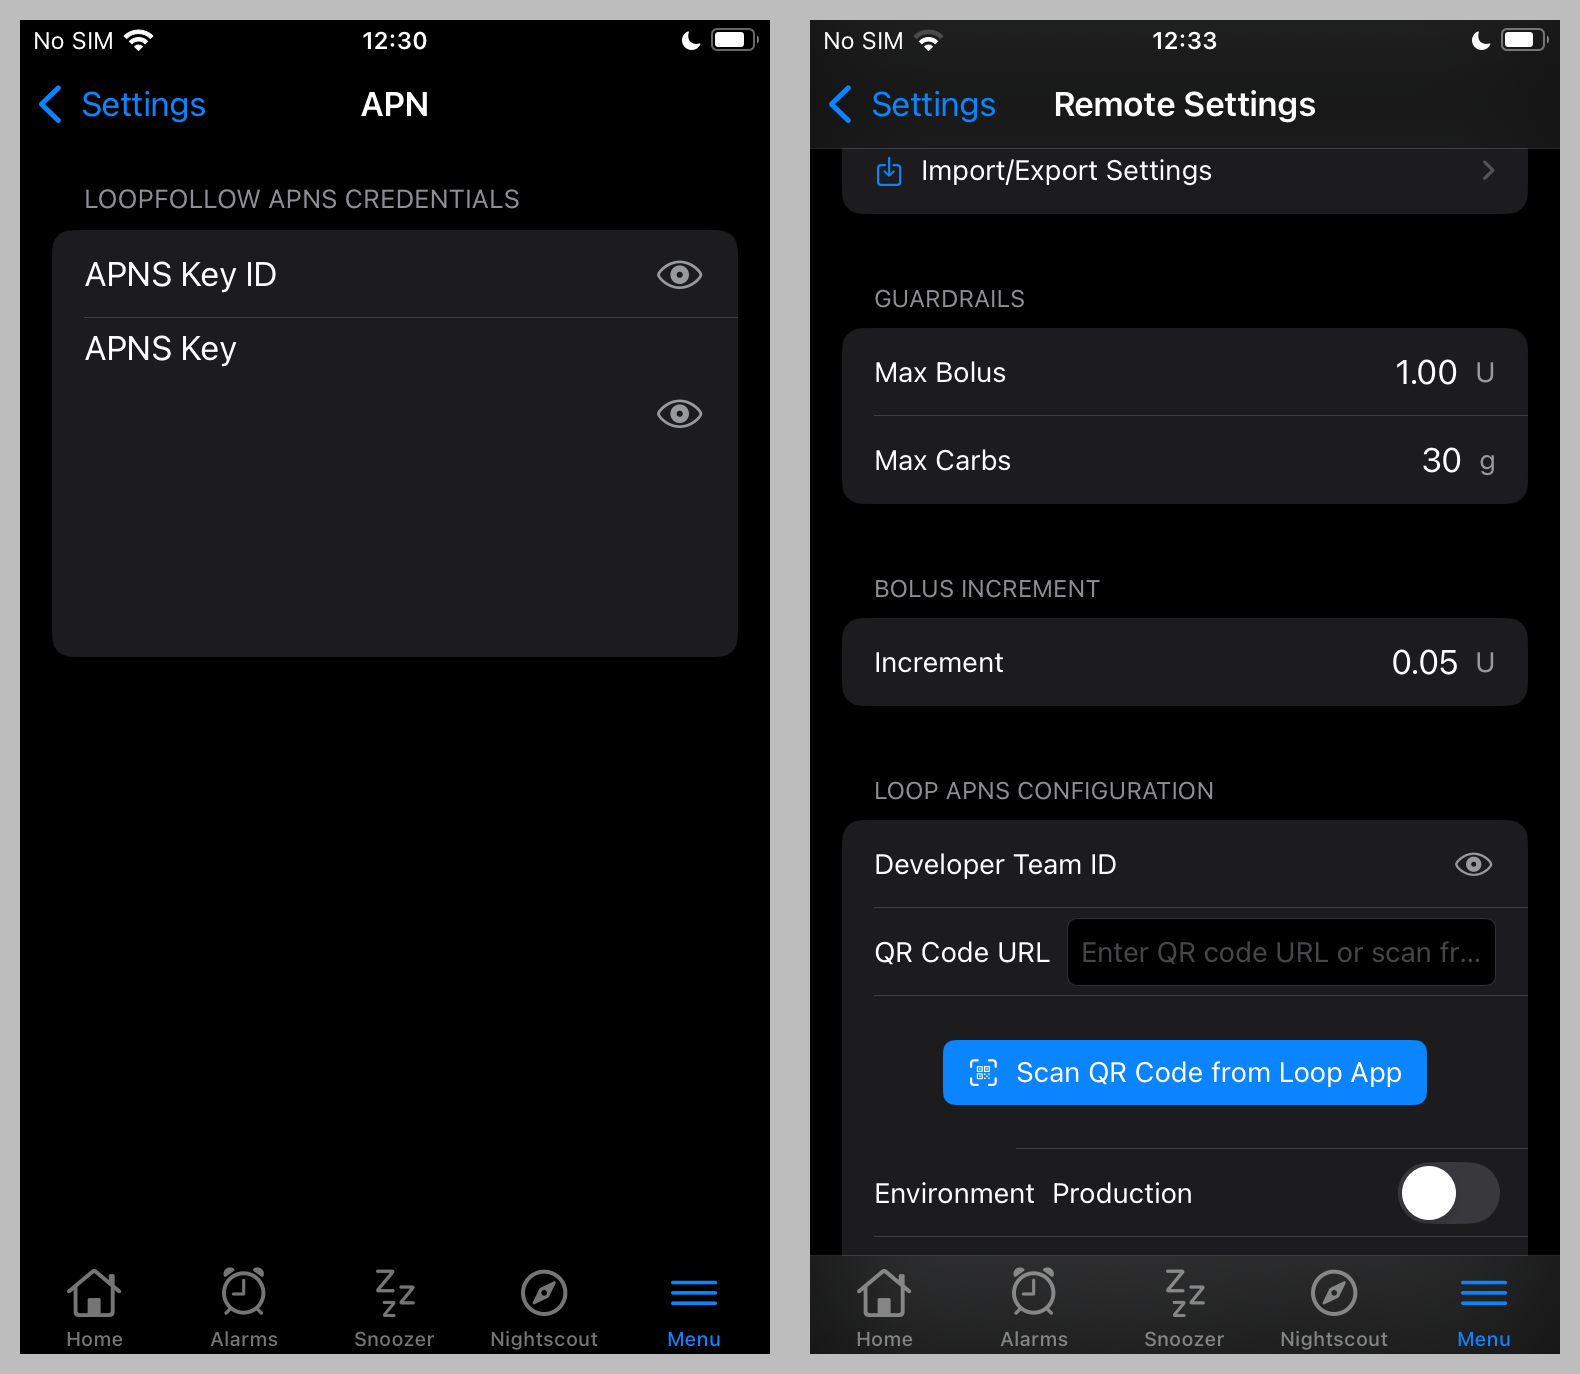
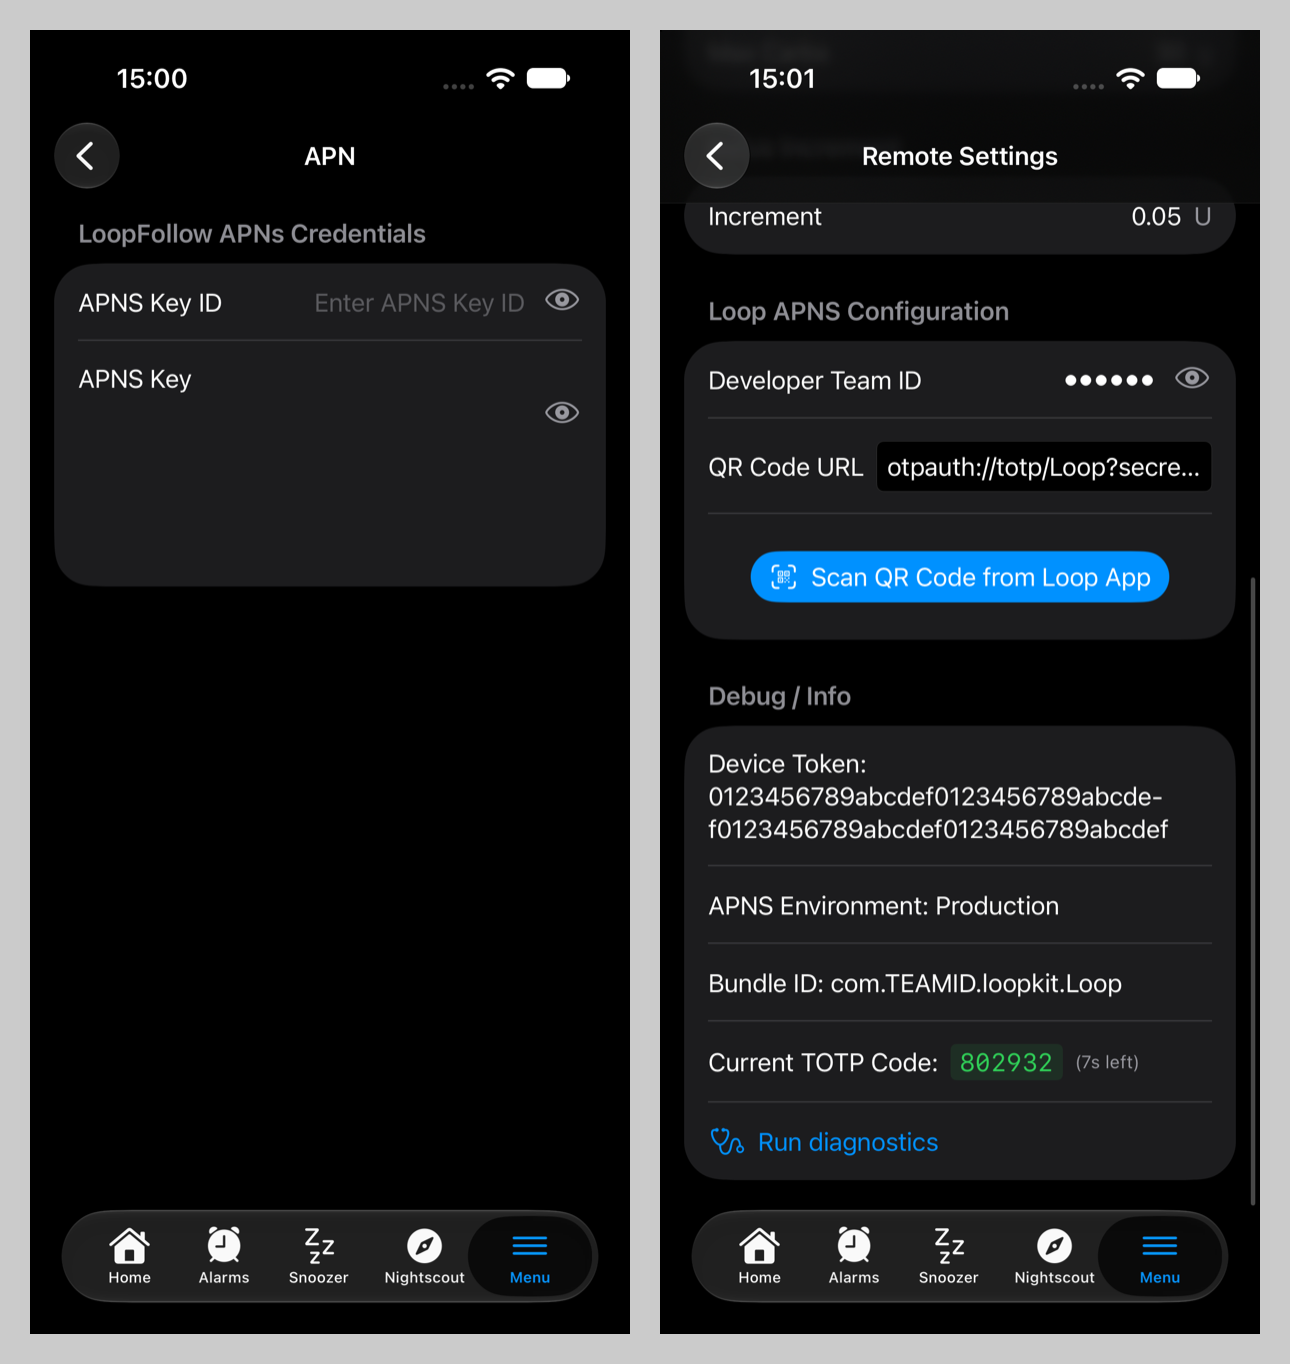
Document the Loop APNS environment read from Nightscout (#68)
LoopFollow reads the APNS environment from the Nightscout profile that Loop uploads and shows it under Debug / Info. Production means Loop was installed with TestFlight and Development means it was installed directly from Xcode. Loop uploads the value from 3.14.7; the next-dev branch does not yet.

diff --git a/docs/remote/remote-control-loop.md b/docs/remote/remote-control-loop.md
@@ -295,7 +295,6 @@ When you select *Loop* Remote Control as the Remote Type in the *LoopFollow* app
 
     * [Developer Team ID](#developer-team-id)
     * [QR Code URL](#qr-code-url)
-    * [Environment Production](#environment-production)
 
 ![remote lrc settings ](img/lf-lrc-credentials.png){width="700"}
 {align="center"}
@@ -342,17 +341,22 @@ Options:
 
 While you are on the *Loop* Settings -> Services -> NightScout screen, notice that the 6-digit number on the One-Time Password row updates every 30 seconds.
 
-### Environment Production
+### APNS Environment
 
-If the *Loop* app was built with Browser Build, you must enable this row.
+!!! info "Available in *LoopFollow* 7.2 and newer"
 
-If the *Loop* app was built using Xcode on a Mac, you must disable this row.
+*Loop* uploads its APNS environment to *Nightscout*, and *LoopFollow* reads it from there. It is shown in the [Debug / Info](#debug-info) section as **APNS Environment**: Production when *Loop* was installed with TestFlight, Development when it was installed directly from Xcode to the phone.
+
+*Loop* uploads this value from version 3.14.7. Until it has, *LoopFollow* uses Development.
+
+!!! note "*Loop* next-dev"
+    The *Loop* `next-dev` branch (3.15) does not upload this value yet.
 
 ### Debug / Info
 
 This section indicates if *Loop* has uploaded required information to *Nightscout*.
 
-The graphic below shows a properly configured *LoopFollow* when the *Loop* app was built using the Browser Build method.
+The graphic below shows a properly configured *LoopFollow* when *Loop* was installed with TestFlight.
 
 ![shows credentials entered into loopfollow are correct](img/lf-lrc-debug.png){width="300"}
 {align=center}
@@ -388,7 +392,7 @@ If sending a command fails immediately, *LoopFollow* shows the reason:
 | Message | Usual cause |
 |:--|:--|
 | Authentication error / JWT error | The APNS Key ID, APNS Key, or Team ID is wrong |
-| Bad request | The **Production** environment toggle does not match how *Loop* was built — Production on for browser builds, off for Xcode builds |
+| Bad request | The [APNS Environment](#apns-environment) does not match how *Loop* was installed — Production for TestFlight, Development for a direct install from Xcode |
 | The device token is no longer active | *Loop* was rebuilt or moved; wait for *Loop* to upload a fresh profile with the new token |
 | Too many requests | APNS is rate-limiting; wait before retrying |
 
